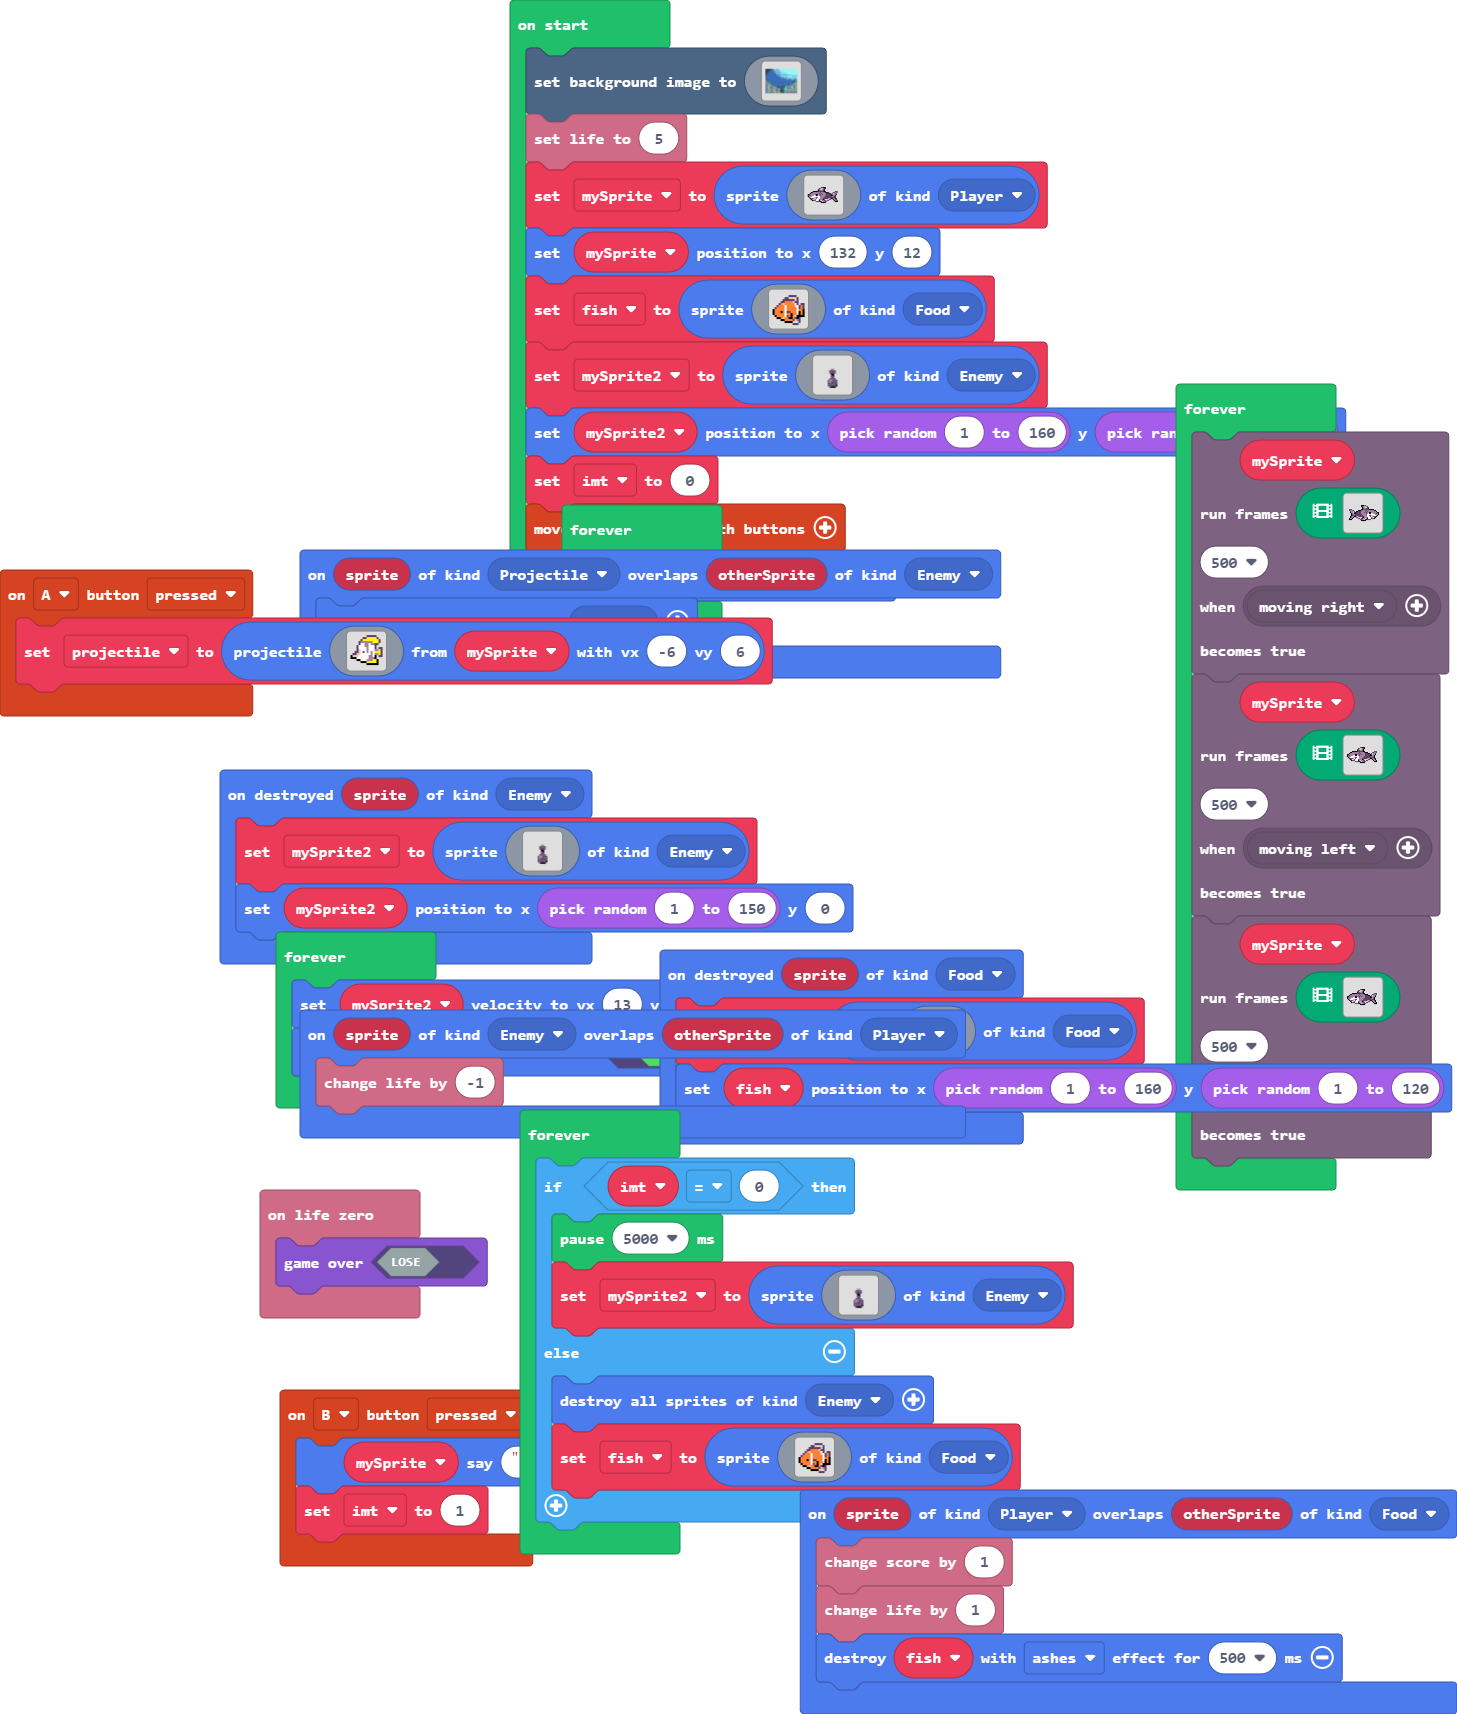
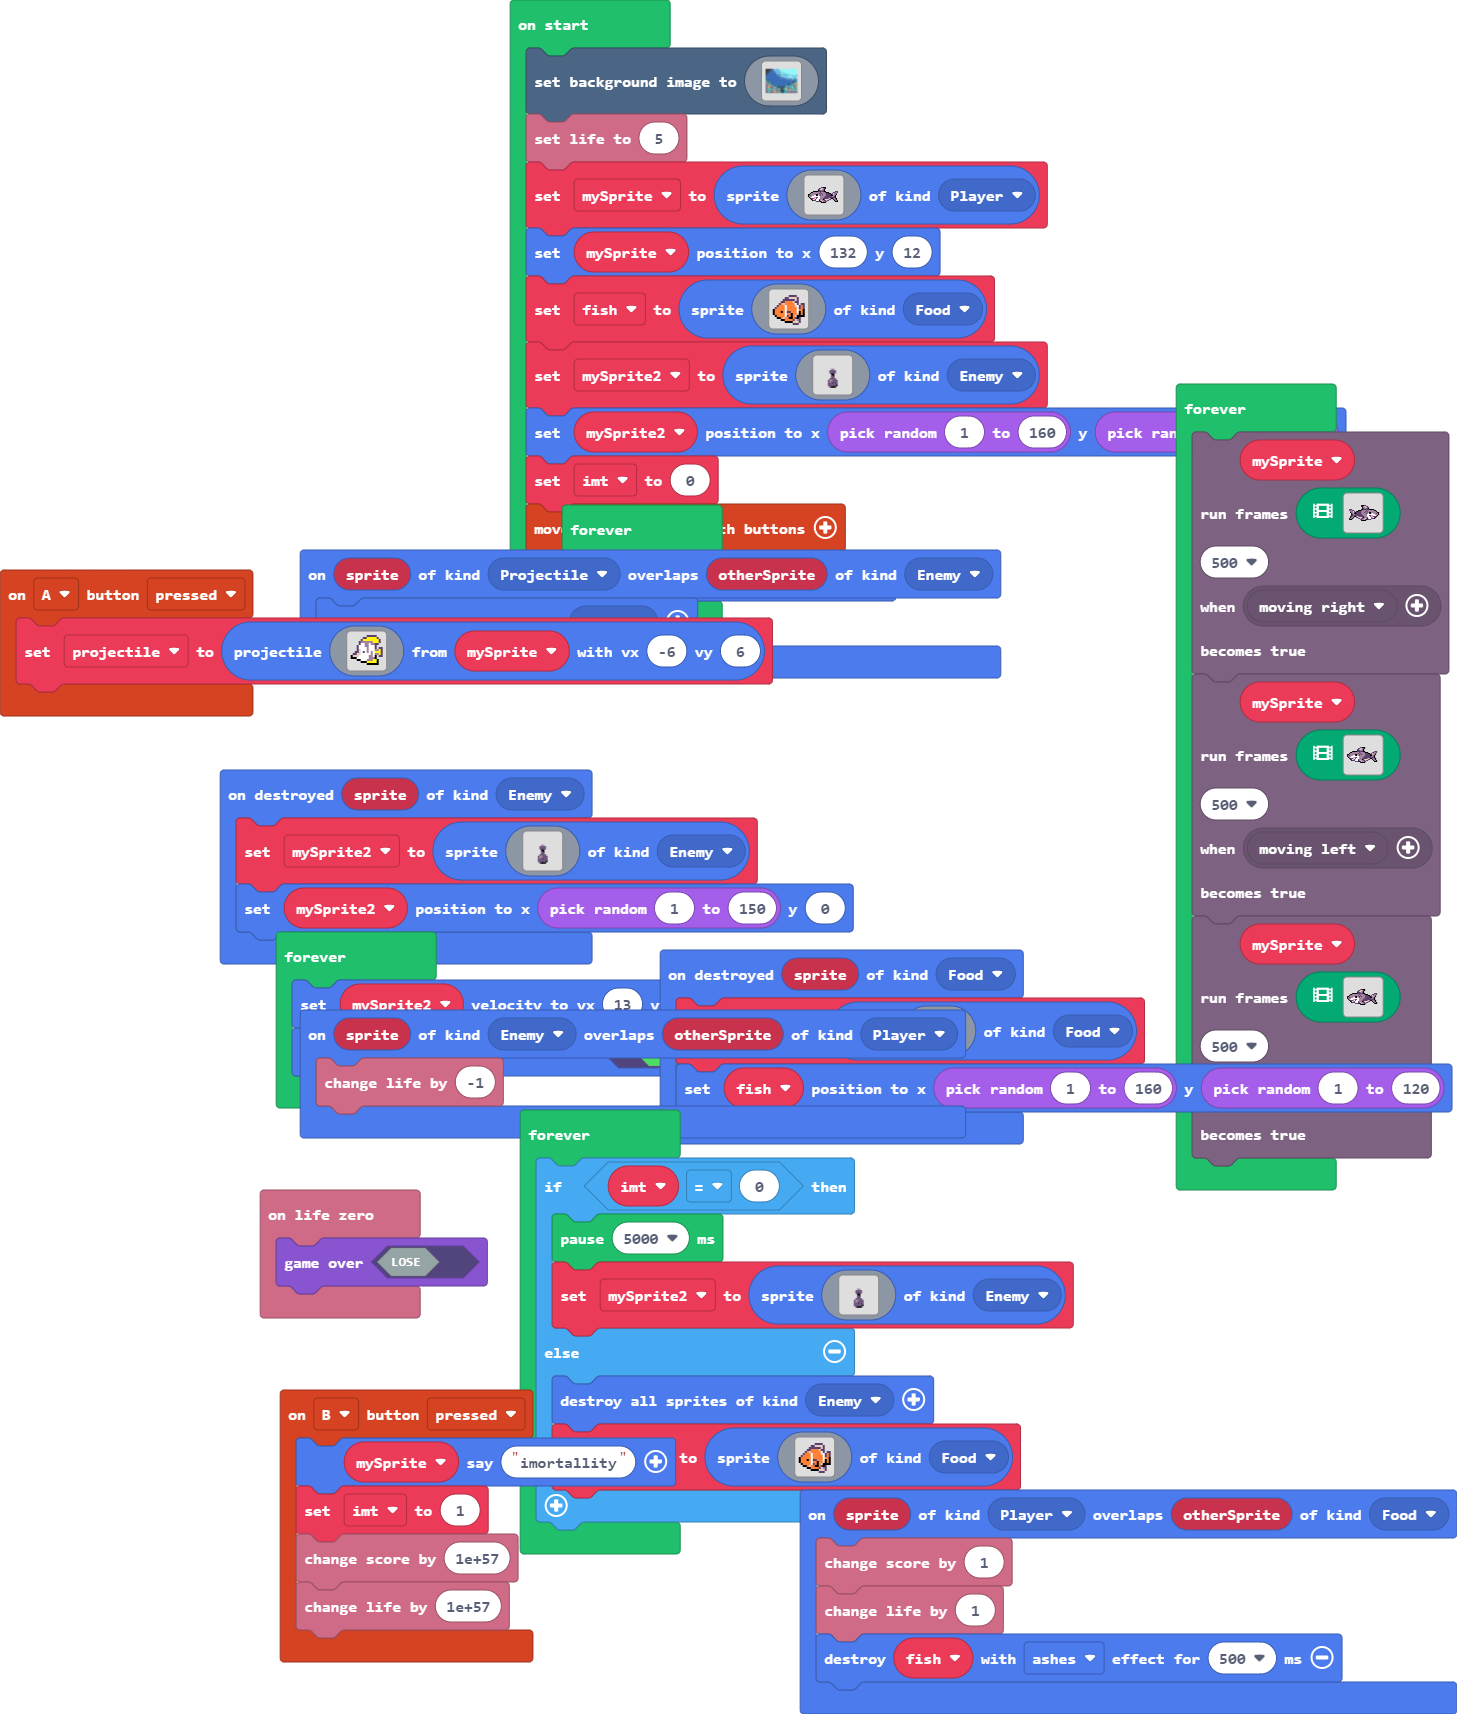
Update main.blocks, main.ts

Changed region(s): [[0.1853, 0.8658, 0.3706, 0.9895], [0.3397, 0.804, 0.4633, 0.8658]]

diff --git a/main.ts b/main.ts
@@ -1,6 +1,8 @@
 controller.B.onEvent(ControllerButtonEvent.Pressed, function () {
     mySprite.sayText("imortallity")
     imt = 1
+    info.changeScoreBy(1e+57)
+    info.changeLifeBy(1e+57)
 })
 sprites.onDestroyed(SpriteKind.Food, function (sprite) {
     fish = sprites.create(img`
